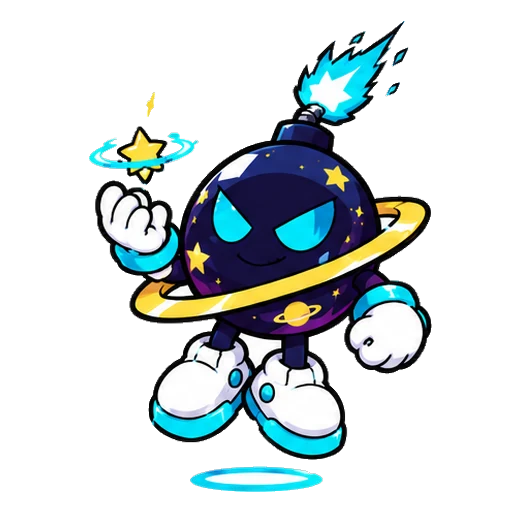
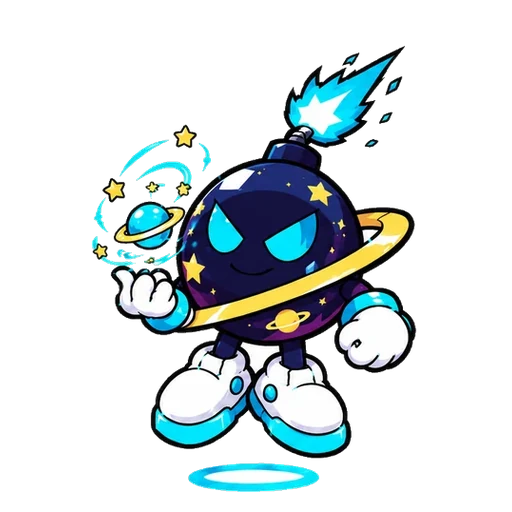
feat(cast): NOVA's idle gets its missing in-between (frame 9 repainted)

Changed region(s): [[0.1562, 0.0312, 0.8438, 0.9688], [0.2812, 0.1875, 0.3125, 0.2188]]

diff --git a/src/cast/cast.js b/src/cast/cast.js
@@ -443,7 +443,8 @@ export const CAST_FRAMES = {
   salty: { n: 12, seq: [[6, 168], [1, 252], [7, 208], [2, 312], [8, 104], [3, 156], [9, 280], [4, 420], [10, 400], [5, 420], [11, 180]], rest: 1800 },
   // NOVA (LEGEND): flicks its tiny star up → it bursts into a crown of five stars → a finger snap, the ring tilts → the
   // stars fall into its palm as a tiny ringed planet → holds it up, comet flaring
-  nova: { n: 12, seq: [[6, 152], [1, 228], [7, 304], [2, 456], [8, 120], [3, 180], [4, 620], [10, 440], [5, 462], [11, 198]], rest: 2000 },
+  // oct26: in-between 9 repainted (the snap hand lowering as the planet forms — the old one drew a prop on the wrong hand)
+  nova: { n: 12, seq: [[6, 152], [1, 228], [7, 304], [2, 456], [8, 120], [3, 180], [9, 248], [4, 372], [10, 440], [5, 462], [11, 198]], rest: 2000 },
   // ELITE / GOLD versions (oct19, Andy: "the confetti for hype ... it's so css we need to do better"): their own painted
   // flipbooks replace the prop streams too
   // MVP HYPE: megaphone down → YELLS into it → fists up, a painted confetti burst → thumb at the crown, wink
